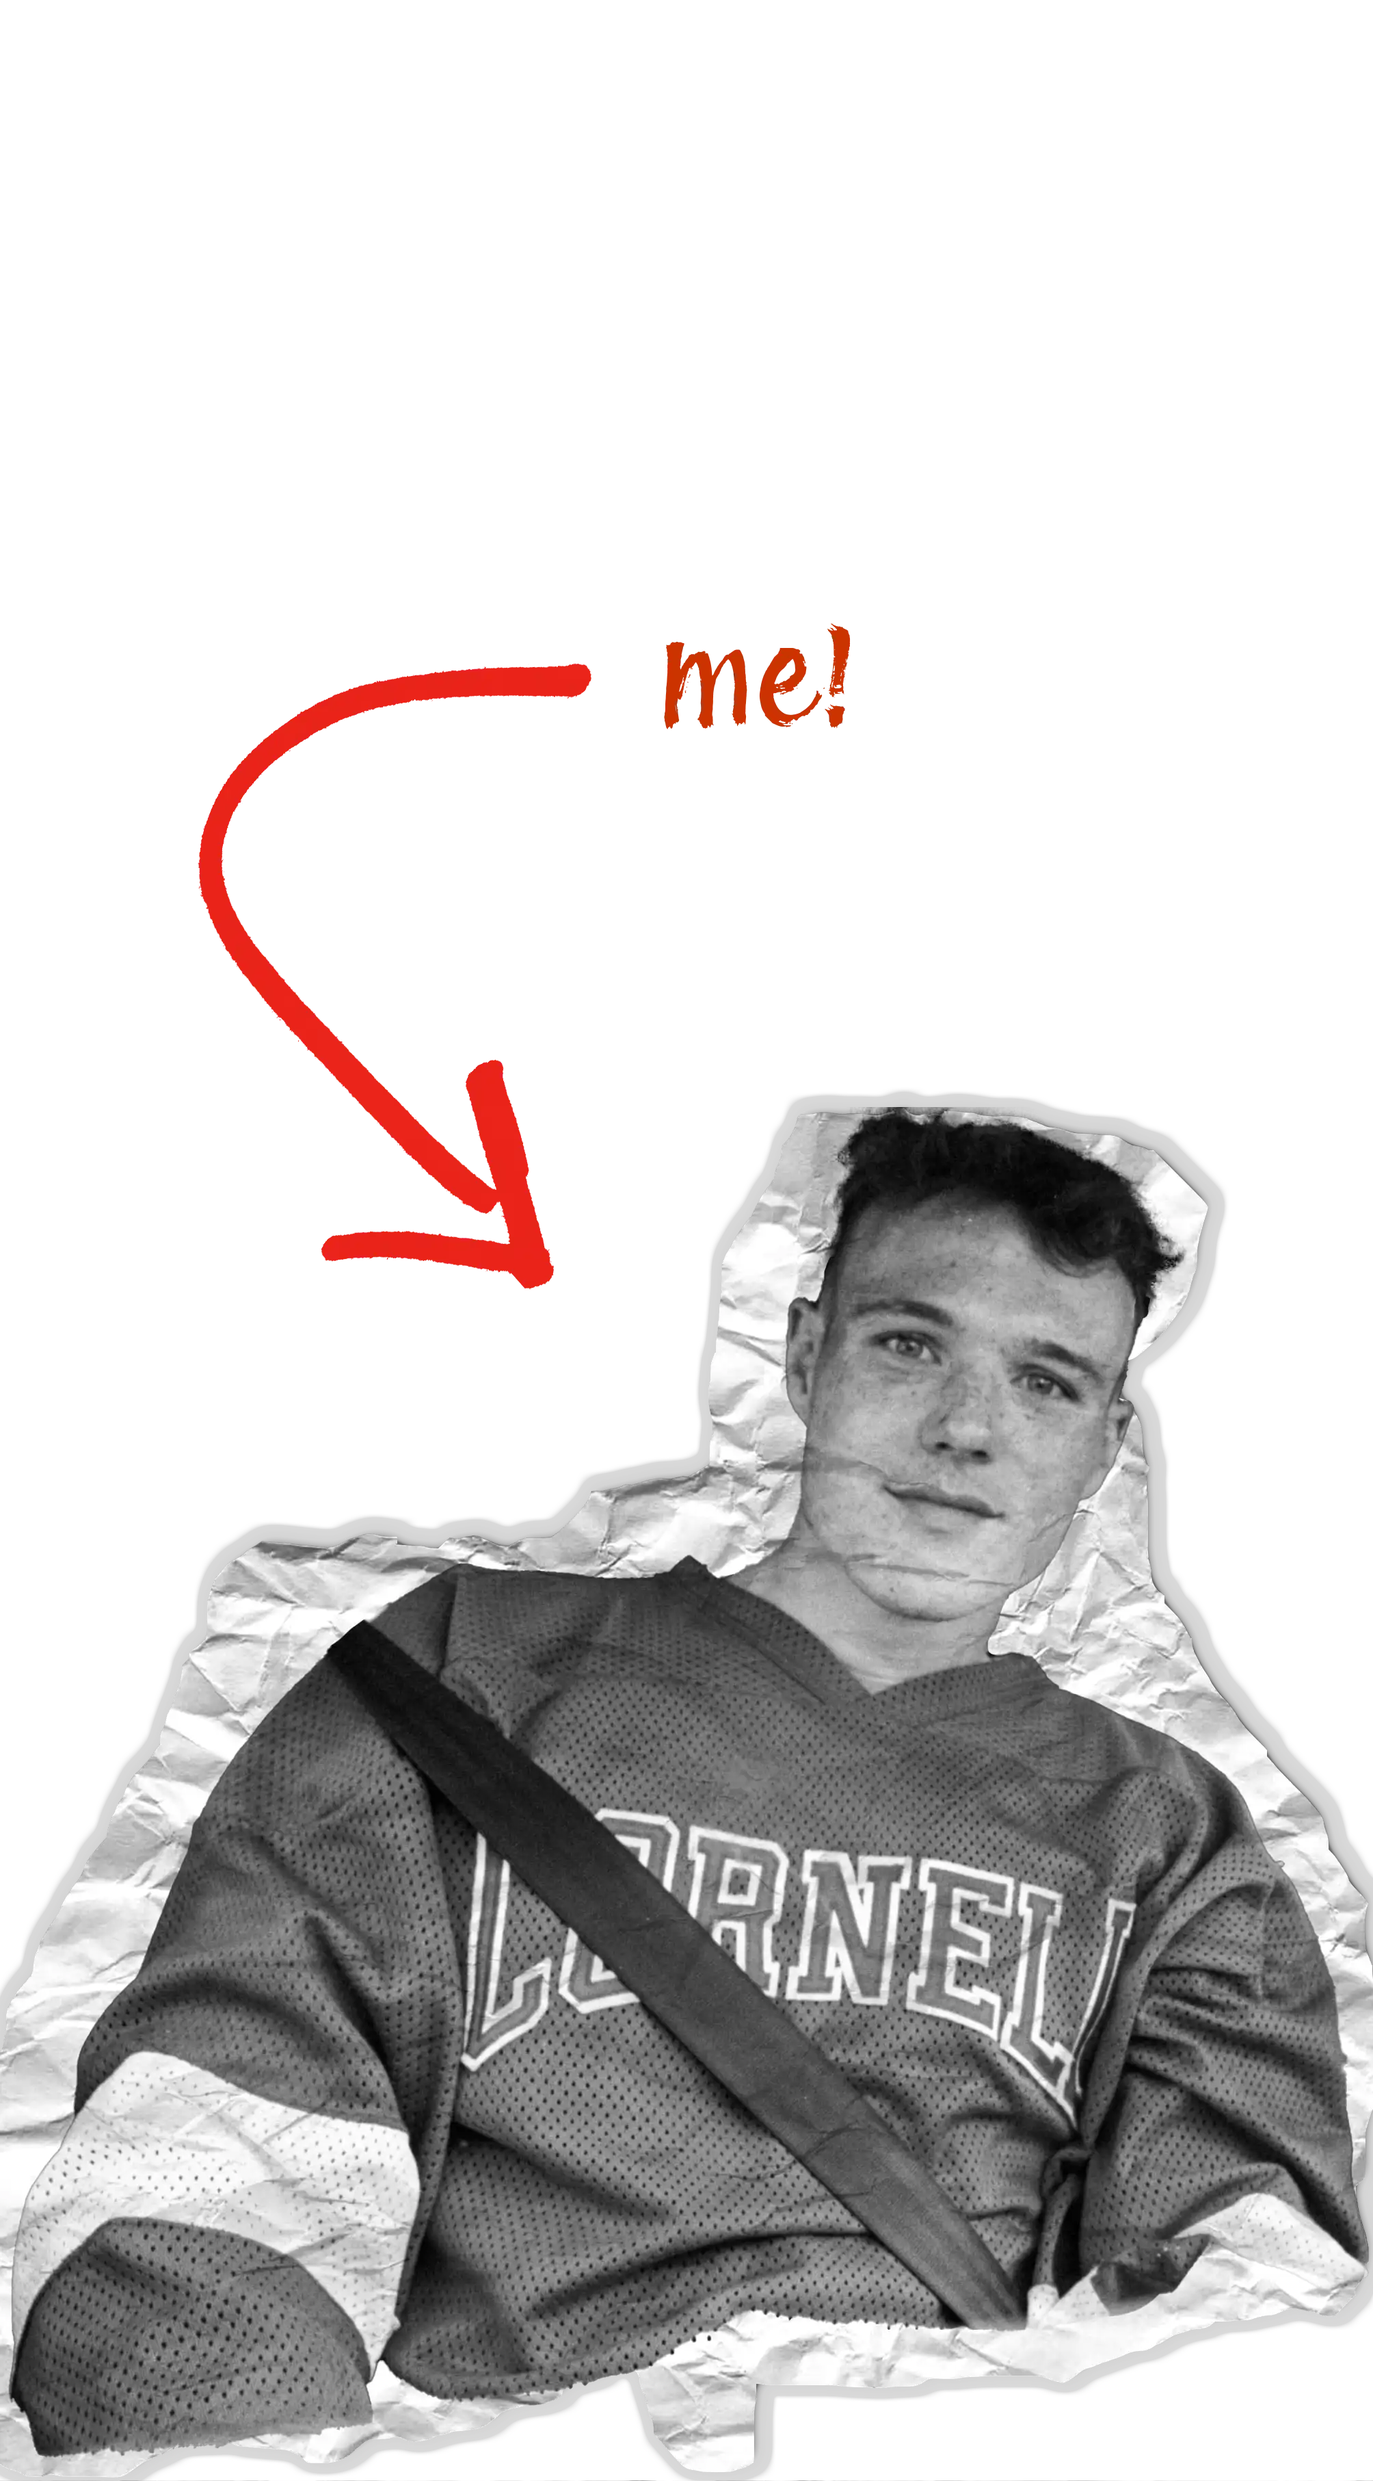
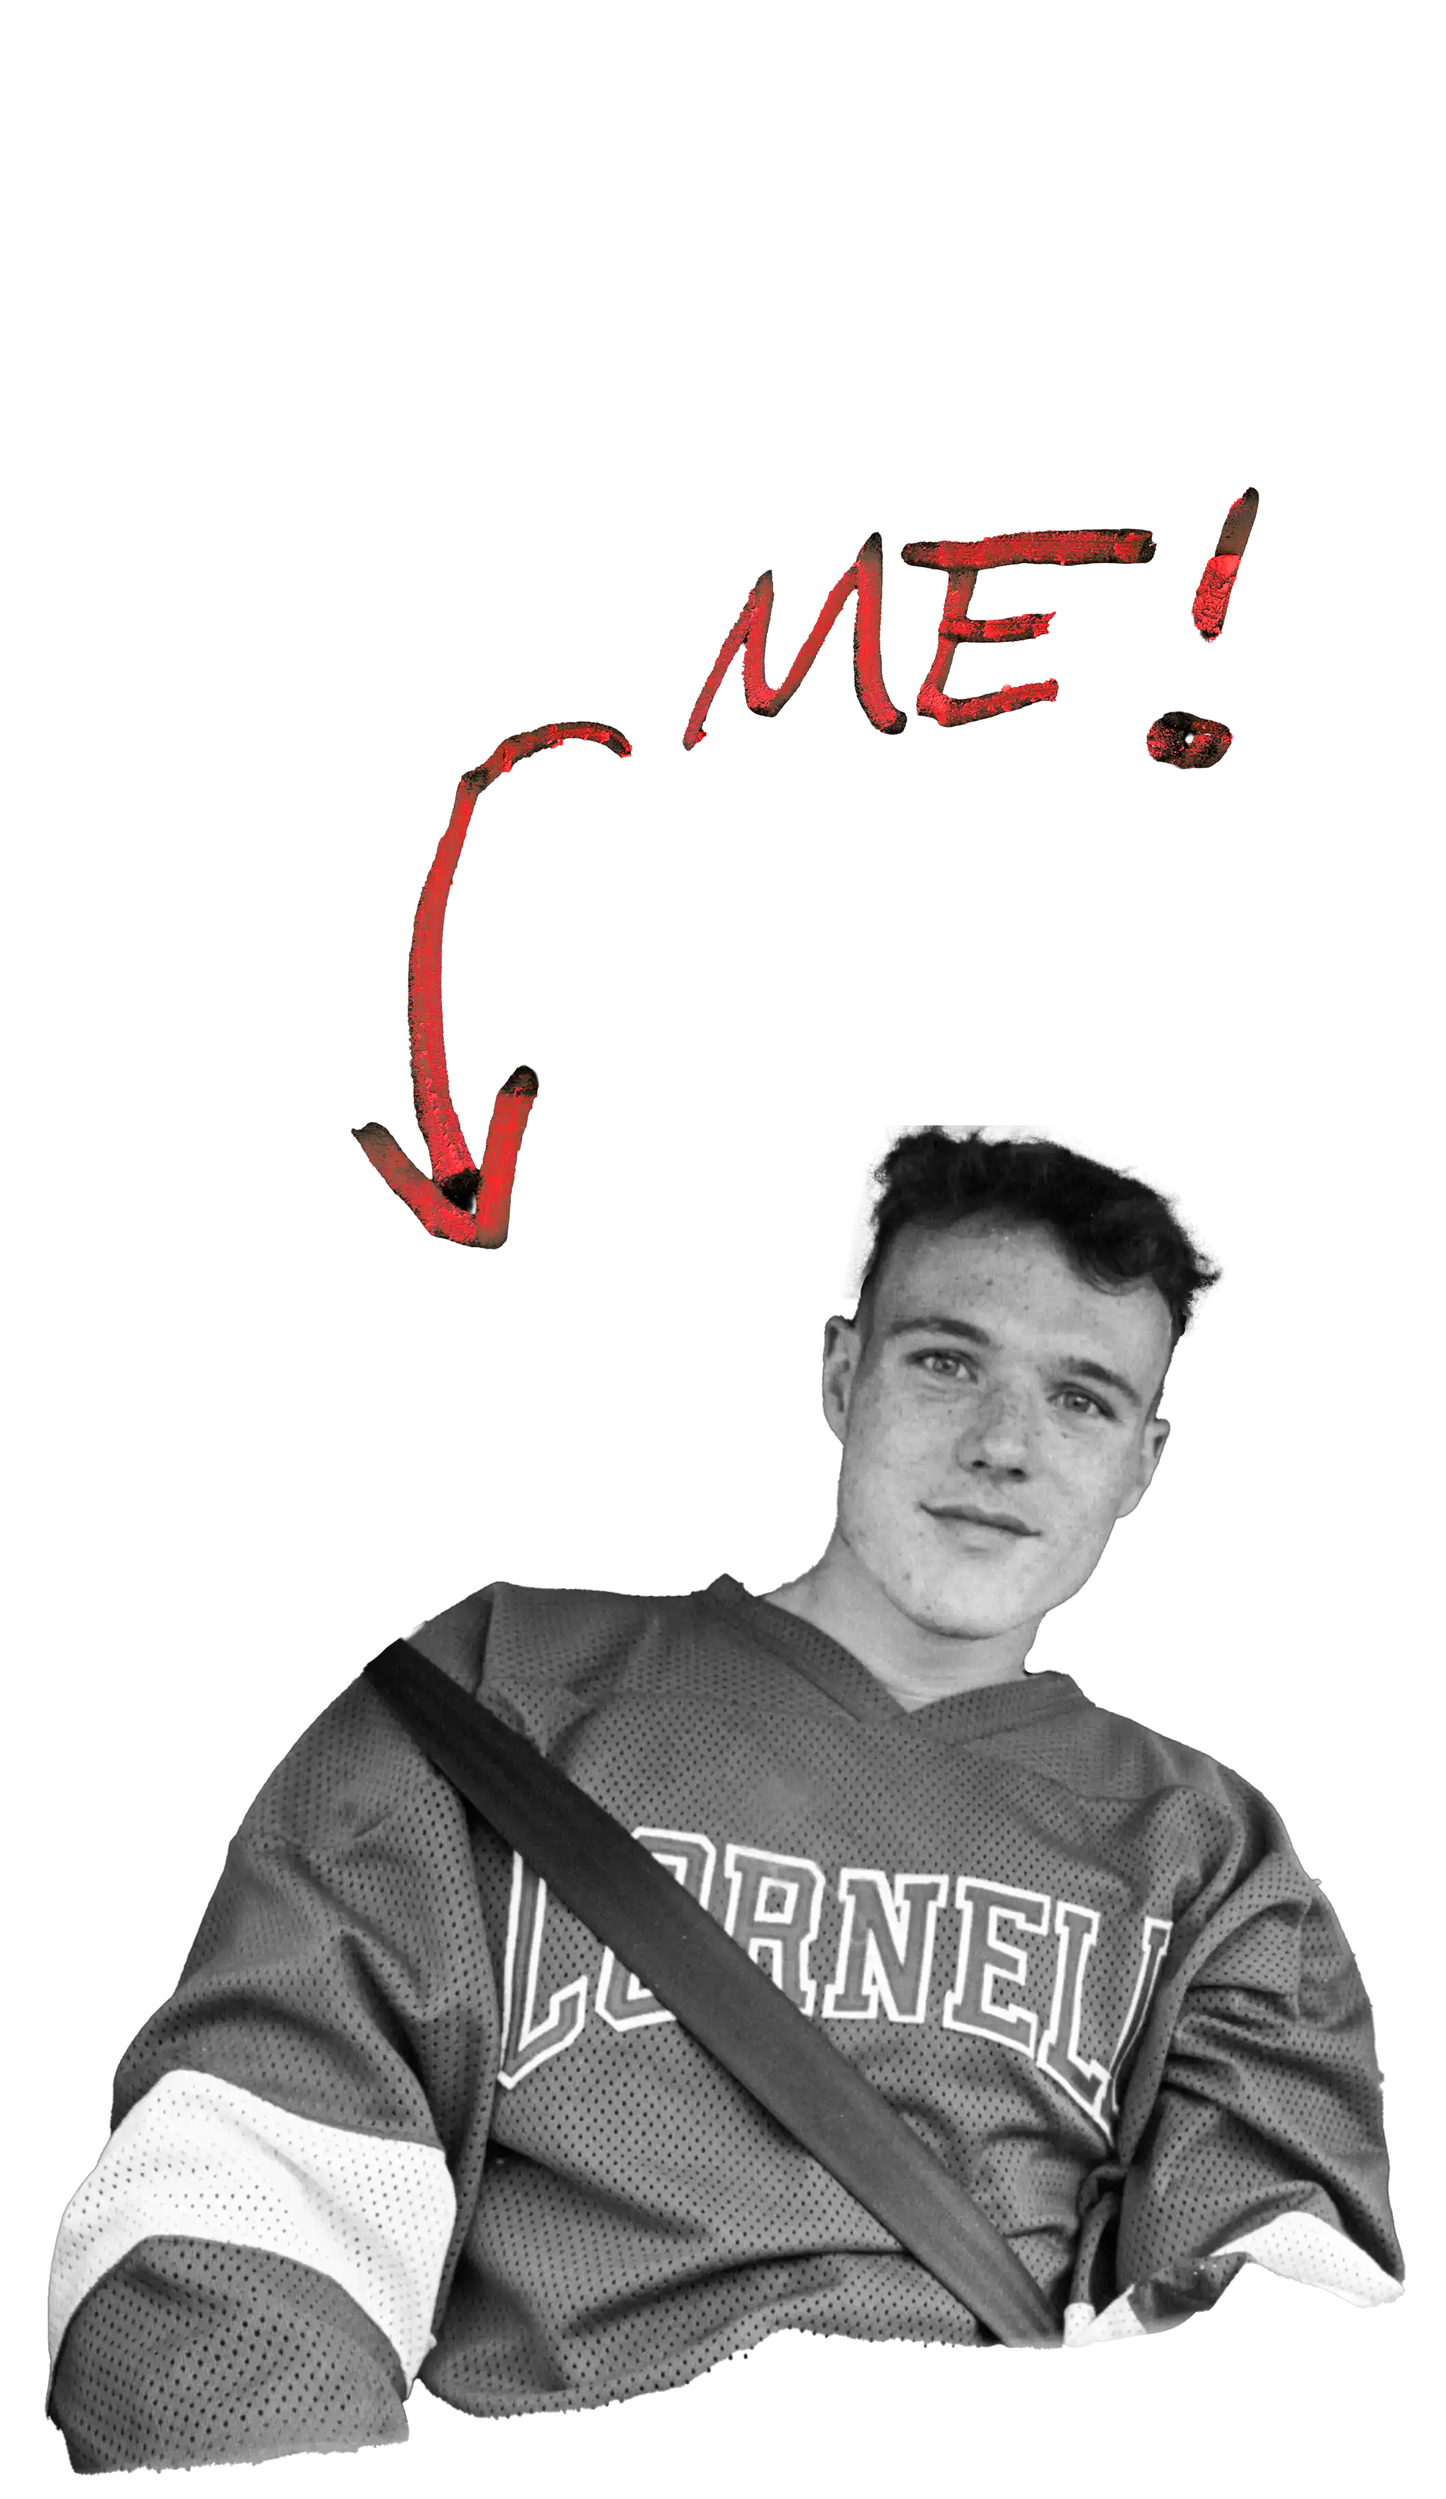
content and formatting changes: dark bg, china marker arrows

diff --git a/process/index.html b/process/index.html
@@ -9,6 +9,7 @@
     :root {
       --ink: #151515;
       --paper: #F1F1F1;
+      --select-arrow-image: url("/assets/select-arrow.webp");
     }
 
     * {
@@ -17,24 +18,40 @@
 
     body {
       margin: 0;
-      padding: 88px 32px 48px;
+      padding: 88px 100px 48px;
       position: relative;
       font-family: sans-serif;
-      background: var(--paper);
-      color: var(--ink);
+      background: var(--ink);
+      color: var(--paper);
+      isolation: isolate;
+    }
+
+    body::before {
+      content: "";
+      position: fixed;
+      inset: 0;
+      background-image: url("/assets/index/texture2.jpeg");
+      background-position: center;
+      background-size: cover;
+      opacity: 0.18;
+      pointer-events: none;
+      z-index: 0;
     }
 
     h1 {
       margin: 0 0 24px;
       font-size: clamp(48px, 8vw, 92px);
       line-height: 0.95;
+      color: var(--paper);
+      position: relative;
+      z-index: 1;
     }
 
     .back-link {
       position: absolute;
       top: 32px;
       left: 32px;
-      color: var(--ink);
+      color: var(--paper);
       text-decoration: none;
       font-size: 16px;
       font-weight: 700;
@@ -51,6 +68,8 @@
       grid-template-columns: repeat(2, minmax(0, 1fr));
       gap: 24px;
       max-width: 1100px;
+      position: relative;
+      z-index: 1;
     }
 
     .process-card {
@@ -69,8 +88,31 @@
 
     .process-card h2 {
       margin: 10px 0 0;
-      font-size: 18px;
+      font-size: clamp(18px, 8vw, 36px);
       letter-spacing: 0.02em;
+      display: inline-flex;
+      align-items: center;
+      gap: 8px;
+    }
+
+    .process-card h2::after {
+      content: "";
+      width: 3em;
+      height: 2em;
+      display: inline-block;
+      background-image: var(--select-arrow-image);
+      background-repeat: no-repeat;
+      background-size: contain;
+      opacity: 0;
+      transform: translateX(-30px);
+      transition: opacity 0.18s ease, transform 0.18s ease;
+    }
+
+    .process-card:hover h2::after,
+    .process-card:focus-visible h2::after,
+    .process-card:focus-within h2::after {
+      opacity: 1;
+      transform: translateX(0);
     }
 
     @media (max-width: 900px) {

diff --git a/photo/index.html b/photo/index.html
@@ -18,23 +18,38 @@
       padding: 88px 100px 100px;
       position: relative;
       font-family: sans-serif;
-      background: var(--paper);
-      color: var(--ink);
+      background: var(--ink);
+      color: var(--paper);
       isolation: isolate;
+    }
+
+    body::before {
+      content: "";
+      position: fixed;
+      inset: 0;
+      background-image: url("/assets/index/texture2.jpeg");
+      background-position: center;
+      background-size: cover;
+      opacity: 0.18;
+      pointer-events: none;
+      z-index: 0;
     }
 
     h1 {
       margin: 0 0 50px;
-      font-size: 100px;
+      font-size: clamp(48px, 10vw, 100px);
+      color: var(--paper);
+      position: relative;
+      z-index: 1;
     }
 
     .back-link {
       position: absolute;
       top: var(--back-edge-offset);
       left: var(--back-edge-offset);
-      color: var(--back-blend-source);
-      mix-blend-mode: difference;
-      text-shadow: 0 0 0.8px rgba(0, 0, 0, 0.25);
+      color: var(--paper);
+      mix-blend-mode: normal;
+      text-shadow: none;
       text-decoration: none;
       font-size: 16px;
       font-weight: 700;
@@ -49,6 +64,8 @@
     .grid {
       column-count: 3;
       column-gap: 100px;
+      position: relative;
+      z-index: 1;
     }
 
     .grid img {
@@ -62,6 +79,10 @@
       margin: 0 0 50px;
       break-inside: avoid;
       -webkit-column-break-inside: avoid;
+    }
+
+    body.no-image-border .grid img {
+      border: 0;
     }
 
     @media (max-width: 900px) {
@@ -96,5 +117,12 @@
     <img src="/assets/long_art2601_fa25_portfolio/13-nick-fuentes-eat-your-heart-out.jpg" alt="Nick Fuentes Eat Your Heart Out" />
     <img src="/assets/long_art2601_fa25_portfolio/14-into-winter.jpg" alt="Into Winter" />
   </div>
+  <script>
+    const ENABLE_IMAGE_BORDER = false;
+
+    if (!ENABLE_IMAGE_BORDER) {
+      document.body.classList.add("no-image-border");
+    }
+  </script>
 </body>
 </html>

diff --git a/styles.css b/styles.css
@@ -6,6 +6,7 @@
   --bg-texture-opacity: 0.18;
   --reveal-texture-opacity: 0.3;
   --menu-reveal-shape: polygon(0% 4%, 64% 100%, 100% 100%, 100% 38%, 12% 0%, 0% 0%);
+  --menu-reveal-origin-y: 0px;
   --menu-right-bound-top-ratio: 0.38;
   --menu-right-bound-bottom-ratio: 1;
   --menu-right-inset: 32px;
@@ -19,6 +20,7 @@
   --menu-type-size-min: 20;
   --menu-type-size-max-ratio: 0.6;
   --menu-type-size: 40px;
+  --menu-select-arrow: url("assets/select-arrow-left.webp");
 }
 
 html {
@@ -135,7 +137,7 @@ body {
 .menu-overlay {
   position: fixed;
   inset: 0;
-  clip-path: circle(0 at 0 0);
+  clip-path: circle(0 at 0 var(--menu-reveal-origin-y));
   transition: clip-path 0.3s ease-in-out;
   pointer-events: none;
   z-index: 5;
@@ -168,7 +170,7 @@ body {
 .app:has(.menu-toggle:checked) .menu-overlay,
 .app:not(.hover-locked):has(.menu-label:hover) .menu-overlay,
 .app:not(.hover-locked):has(.menu-overlay:hover) .menu-overlay {
-  clip-path: circle(calc(1.42 * 100vmax) at 0 0);
+  clip-path: circle(calc(1.42 * 100vmax) at 0 var(--menu-reveal-origin-y));
   transition: clip-path 0.5s ease-in-out;
   pointer-events: auto;
 }
@@ -231,6 +233,30 @@ body {
 .menu-nav a {
   color: inherit;
   text-decoration: none;
+  display: inline-flex;
+  align-items: center;
+  gap: 10px;
+}
+
+.menu-nav a::before {
+  content: "";
+  width: 1.5em;
+  height: 1em;
+  flex: 0 0 auto;
+  display: inline-block;
+  background-image: var(--menu-select-arrow);
+  background-position: center;
+  background-repeat: no-repeat;
+  background-size: contain;
+  opacity: 0;
+  transform: translateX(0px);
+  transition: opacity 0.18s ease, transform 0.18s ease;
+}
+
+.menu-nav a:hover::before,
+.menu-nav a:focus-visible::before {
+  opacity: 1;
+  transform: translateX(0);
 }
 
 .menu-nav a:hover {

diff --git a/page.css b/page.css
@@ -24,12 +24,12 @@ body {
 
 h1 {
   margin: 0;
-  font-size: 48px;
+  font-size: clamp(36px, 8vw, 48px);
 }
 
 .back-link {
   position: absolute;
-  top: var(--back-edge-offset);
+  top: 32px;
   left: var(--back-edge-offset);
   color: var(--ink);
   mix-blend-mode: difference;

diff --git a/about/index.html b/about/index.html
@@ -190,7 +190,7 @@
 
     .bio-page h1 {
       margin: 0 0 12px;
-      font-size: 100px;
+      font-size: clamp(48px, 10vw, 100px);
       font-family: sans-serif;
     }
 

diff --git a/portrait/index.html b/portrait/index.html
@@ -25,7 +25,7 @@
 
     h1 {
       margin: 0 0 24px;
-      font-size: 100px;
+      font-size: clamp(48px, 10vw, 100px);
     }
 
     .back-link {

diff --git a/ascii/index.html b/ascii/index.html
@@ -45,7 +45,7 @@
 
     h1 {
       margin: 0 0 12px;
-      font-size: 48px;
+      font-size: clamp(36px, 8vw, 48px);
     }
 
     p {
